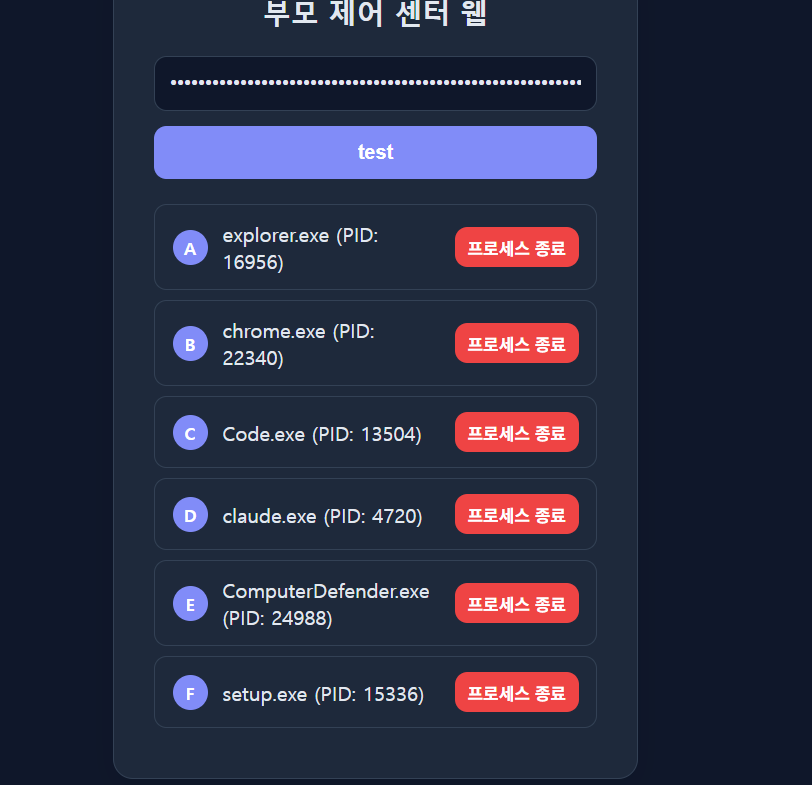
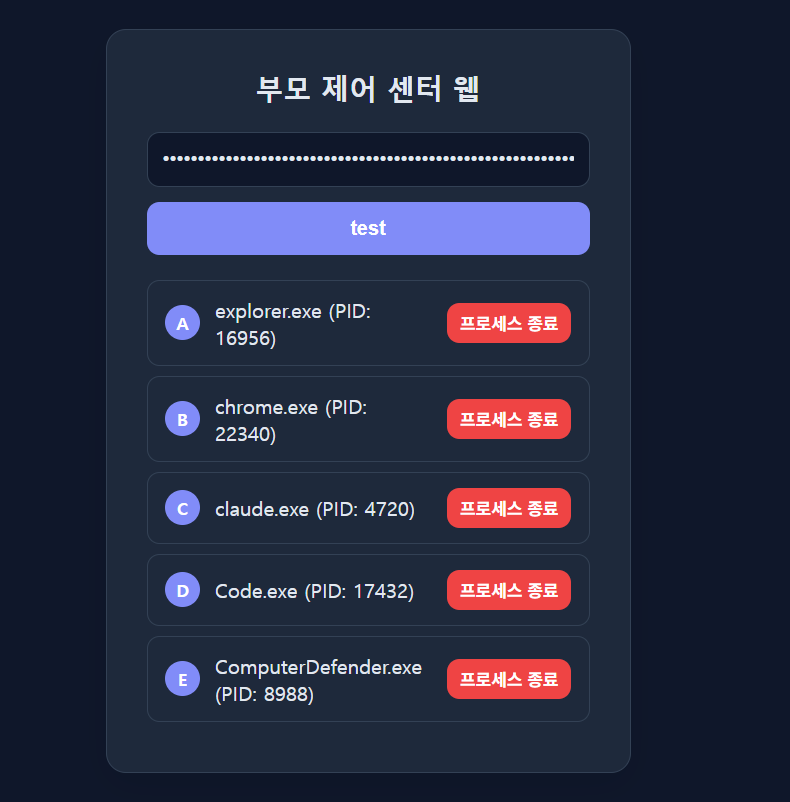
Fix Vercel static portfolio deployment and refresh screenshots

Changed region(s): [[0.1823, 0.0917, 0.7595, 0.9172], [0.3038, 0.0, 0.6076, 0.0306]]

diff --git a/portfolio/index.html b/portfolio/index.html
@@ -47,7 +47,7 @@
         </div>
         <figure class="screenshot hero-shot">
           <a href="assets/images/process-list.png" aria-label="앱 목록 화면 원본 보기">
-            <img src="assets/images/process-list.png" width="812" height="785" alt="ComputeDefend에서 앱 이름과 PID, 각 앱의 프로세스 종료 버튼을 표시한 화면" fetchpriority="high">
+            <img src="assets/images/process-list.png" width="790" height="802" alt="ComputeDefend에서 앱 이름과 PID, 각 앱의 프로세스 종료 버튼을 표시한 화면" fetchpriority="high">
           </a>
           <figcaption>실행 중인 앱을 확인하고 웹에서 종료를 요청합니다.</figcaption>
         </figure>
@@ -177,6 +177,13 @@
           </ul>
         </div>
       </div>
+
+      <figure class="screenshot client-log">
+        <a href="assets/images/client-log.png" aria-label="C++ 클라이언트 통신 로그 원본 보기">
+          <img src="assets/images/client-log.png" width="1202" height="377" alt="C++ 클라이언트가 앱 목록을 전송하고 HTTP 상태 코드 200과 응답 JSON을 출력한 콘솔 로그" loading="lazy" decoding="async">
+        </a>
+        <figcaption>C++ 클라이언트 통신 로그입니다. 앱 목록 전송에 대한 상태 코드 200과 응답 JSON을 확인했습니다.</figcaption>
+      </figure>
     </div>
   </section>
 

diff --git a/portfolio/style.css b/portfolio/style.css
@@ -307,6 +307,7 @@ a { color: inherit; }
 .hero-shot img { max-height: 400px; object-fit: contain; background: #0f172a; }
 .hero-shot figcaption { color: var(--on-dark-muted); }
 .learning-note { margin-top: 20px; }
+.client-log { margin-top: 40px; }
 
 .code-card {
   background: var(--canvas-dark);

diff --git a/portfolio/README.md b/portfolio/README.md
@@ -22,15 +22,16 @@ portfolio/
 └── assets/
     ├── fonts/PretendardVariable.woff2
     └── images/
-        ├── process-list.png     # 앱 목록 (히어로)
-        └── api-key-entry.png    # API 키 입력 (프로젝트)
+        ├── process-list.png     # 최신 앱 목록 (히어로)
+        ├── api-key-entry.png    # API 키 입력 (프로젝트)
+        └── client-log.png       # C++ 통신 로그 (프로젝트)
 ```
 
 ## 반영 내용 (2026-11-17)
 
 - `../docs/howToUse.md`를 바탕으로 비용 부담에서 시작한 동기, 작은 기능부터 구현한 과정, 학원 선생님과의 의견 교환, AI 활용 경험을 반영했습니다.
 - 비전·협업·마무리의 자리표시자를 제공된 경험으로 교체했습니다.
-- `../docs/images/`의 원본 2장을 위 파일명으로 복사했습니다. 이미지에 대체 텍스트, 원본 보기 링크, 설명을 제공합니다. API 키 값은 원본에서 마스킹되어 있습니다.
+- `../docs/images/`의 원본을 위 파일명으로 복사했습니다. 앱 목록은 `185118.png`로 끝나는 최신 스크린샷을 사용하고 `185154.png`의 C++ 통신 로그를 추가했습니다. 이미지에 대체 텍스트, 원본 보기 링크, 설명을 제공합니다. API 키 값은 원본에서 마스킹되어 있습니다.
 - 기존 청록색·초록색 디자인과 한국어 로컬 폰트를 유지했습니다. 이미지 비율을 보존하고 모바일에서는 한 열로 배치합니다.
 - 현재 소스 기준으로 HTTP 폴링, Fetch API, SSE, Upstash Redis와 로컬 메모리 저장소를 설명합니다. SSE 갱신은 구현된 기능으로 옮겼습니다.
 - `.hallmark/` 검수 산출물은 Git에서 제외합니다.
@@ -41,4 +42,10 @@ portfolio/
 
 개발 기록인 `docs/howToUse.md`의 Supabase/PostgreSQL 설명과 현재 코드의 Upstash Redis 구현은 다릅니다. 현재 동작은 `src/Web/BackEnd/main.py`와 `src/Web/FrontEnd/main.js`를 기준으로 확인합니다.
 
-이번 작업은 저장소 소스 반영 범위입니다. 포트폴리오 호스팅 URL은 아직 지정하지 않았습니다. 제출 전에 학생 본인이 이름·학교·경험·표현을 검토하고, 실제 제출할 URL의 화면을 확인해야 합니다.
+## Vercel 배포
+
+공개 주소는 <https://compute-defender.vercel.app/>입니다. 저장소 루트의 `vercel.json`이 `framework: null`, 빈 설치·빌드 명령, `outputDirectory: portfolio`를 지정합니다. Vercel의 Root Directory는 저장소 루트(`.`), Production Branch는 `main`을 사용합니다.
+
+소개 페이지는 정적 파일만 제공하므로 FastAPI 서버, API 키, Redis 연결이 필요하지 않습니다. 이전 FastAPI 배포가 `FUNCTION_INVOCATION_FAILED`를 반환하면 이 설정이 포함된 커밋으로 재배포합니다. 실제 제어 앱은 별도 서버 배포가 필요합니다.
+
+제출 전에 학생 본인이 이름·학교·경험·표현을 검토하고 실제 제출할 URL의 화면을 확인해야 합니다.

diff --git a/README.md b/README.md
@@ -69,11 +69,15 @@ $env:COMPUTER_DEFENDER_API_KEY = 'replace-with-your-own-key'
 | `COMPUTER_DEFENDER_URL` | C++ 연결 서버, 기본값 `http://127.0.0.1:8000` |
 | `COMPUTER_DEFENDER_API_KEY` | C++ 인증 키 |
 
-현재 `pyproject.toml`은 Vercel FastAPI 진입점을 선언합니다. `VERCEL` 환경에서는 서버가 API 키와 Redis 설정을 필수로 검사합니다. 배포 URL은 이 문서에 지정하지 않았습니다.
+`pyproject.toml`에는 FastAPI 진입점이 선언되어 있습니다. 실제 제어 서버를 별도로 배포할 때 `VERCEL` 환경에서는 API 키와 Redis 설정이 필요합니다.
 
 `docs/howToUse.md`에는 Supabase/PostgreSQL 구상이 남아 있지만, 현재 소스의 저장소 구현은 Upstash Redis입니다.
 
 ## 랜딩 페이지 미리보기
+
+공개 주소: <https://compute-defender.vercel.app/>. 저장소 루트의 `vercel.json`은 프레임워크를 `Other`로 지정하고 `portfolio/`만 정적 배포합니다. 설치·빌드 단계가 없으며 랜딩 페이지에는 API 키나 Redis가 필요하지 않습니다.
+
+Vercel 프로젝트의 Root Directory는 저장소 루트(`.`), Production Branch는 `main`으로 설정합니다. Git 연동으로 `main` 푸시 후 자동 재배포되며, 연동되지 않았다면 Vercel에서 해당 커밋을 배포해야 합니다. 이 설정은 실제 프로세스 제어 서버를 함께 배포하지 않습니다.
 
 ```powershell
 python -m http.server 8765 --bind 127.0.0.1 --directory portfolio
@@ -85,4 +89,4 @@ python -m http.server 8765 --bind 127.0.0.1 --directory portfolio
 
 [앱 목록 스크린샷 보기](portfolio/assets/images/process-list.png)
 
-2026-11-17: 개발 경험을 랜딩 페이지에 반영하고 제공된 스크린샷 2장을 삽입했습니다. 페이지 구성과 수정 방법은 [포트폴리오 README](portfolio/README.md)를 참고하세요.
+2026-11-17: 개발 경험과 제공된 이미지를 반영했습니다. 최신 앱 목록으로 교체하고 C++ 통신 로그를 추가했으며, FastAPI 자동 실행 대신 랜딩 페이지를 정적 배포하도록 Vercel 설정을 명시했습니다. 페이지 구성과 수정 방법은 [포트폴리오 README](portfolio/README.md)를 참고하세요.
